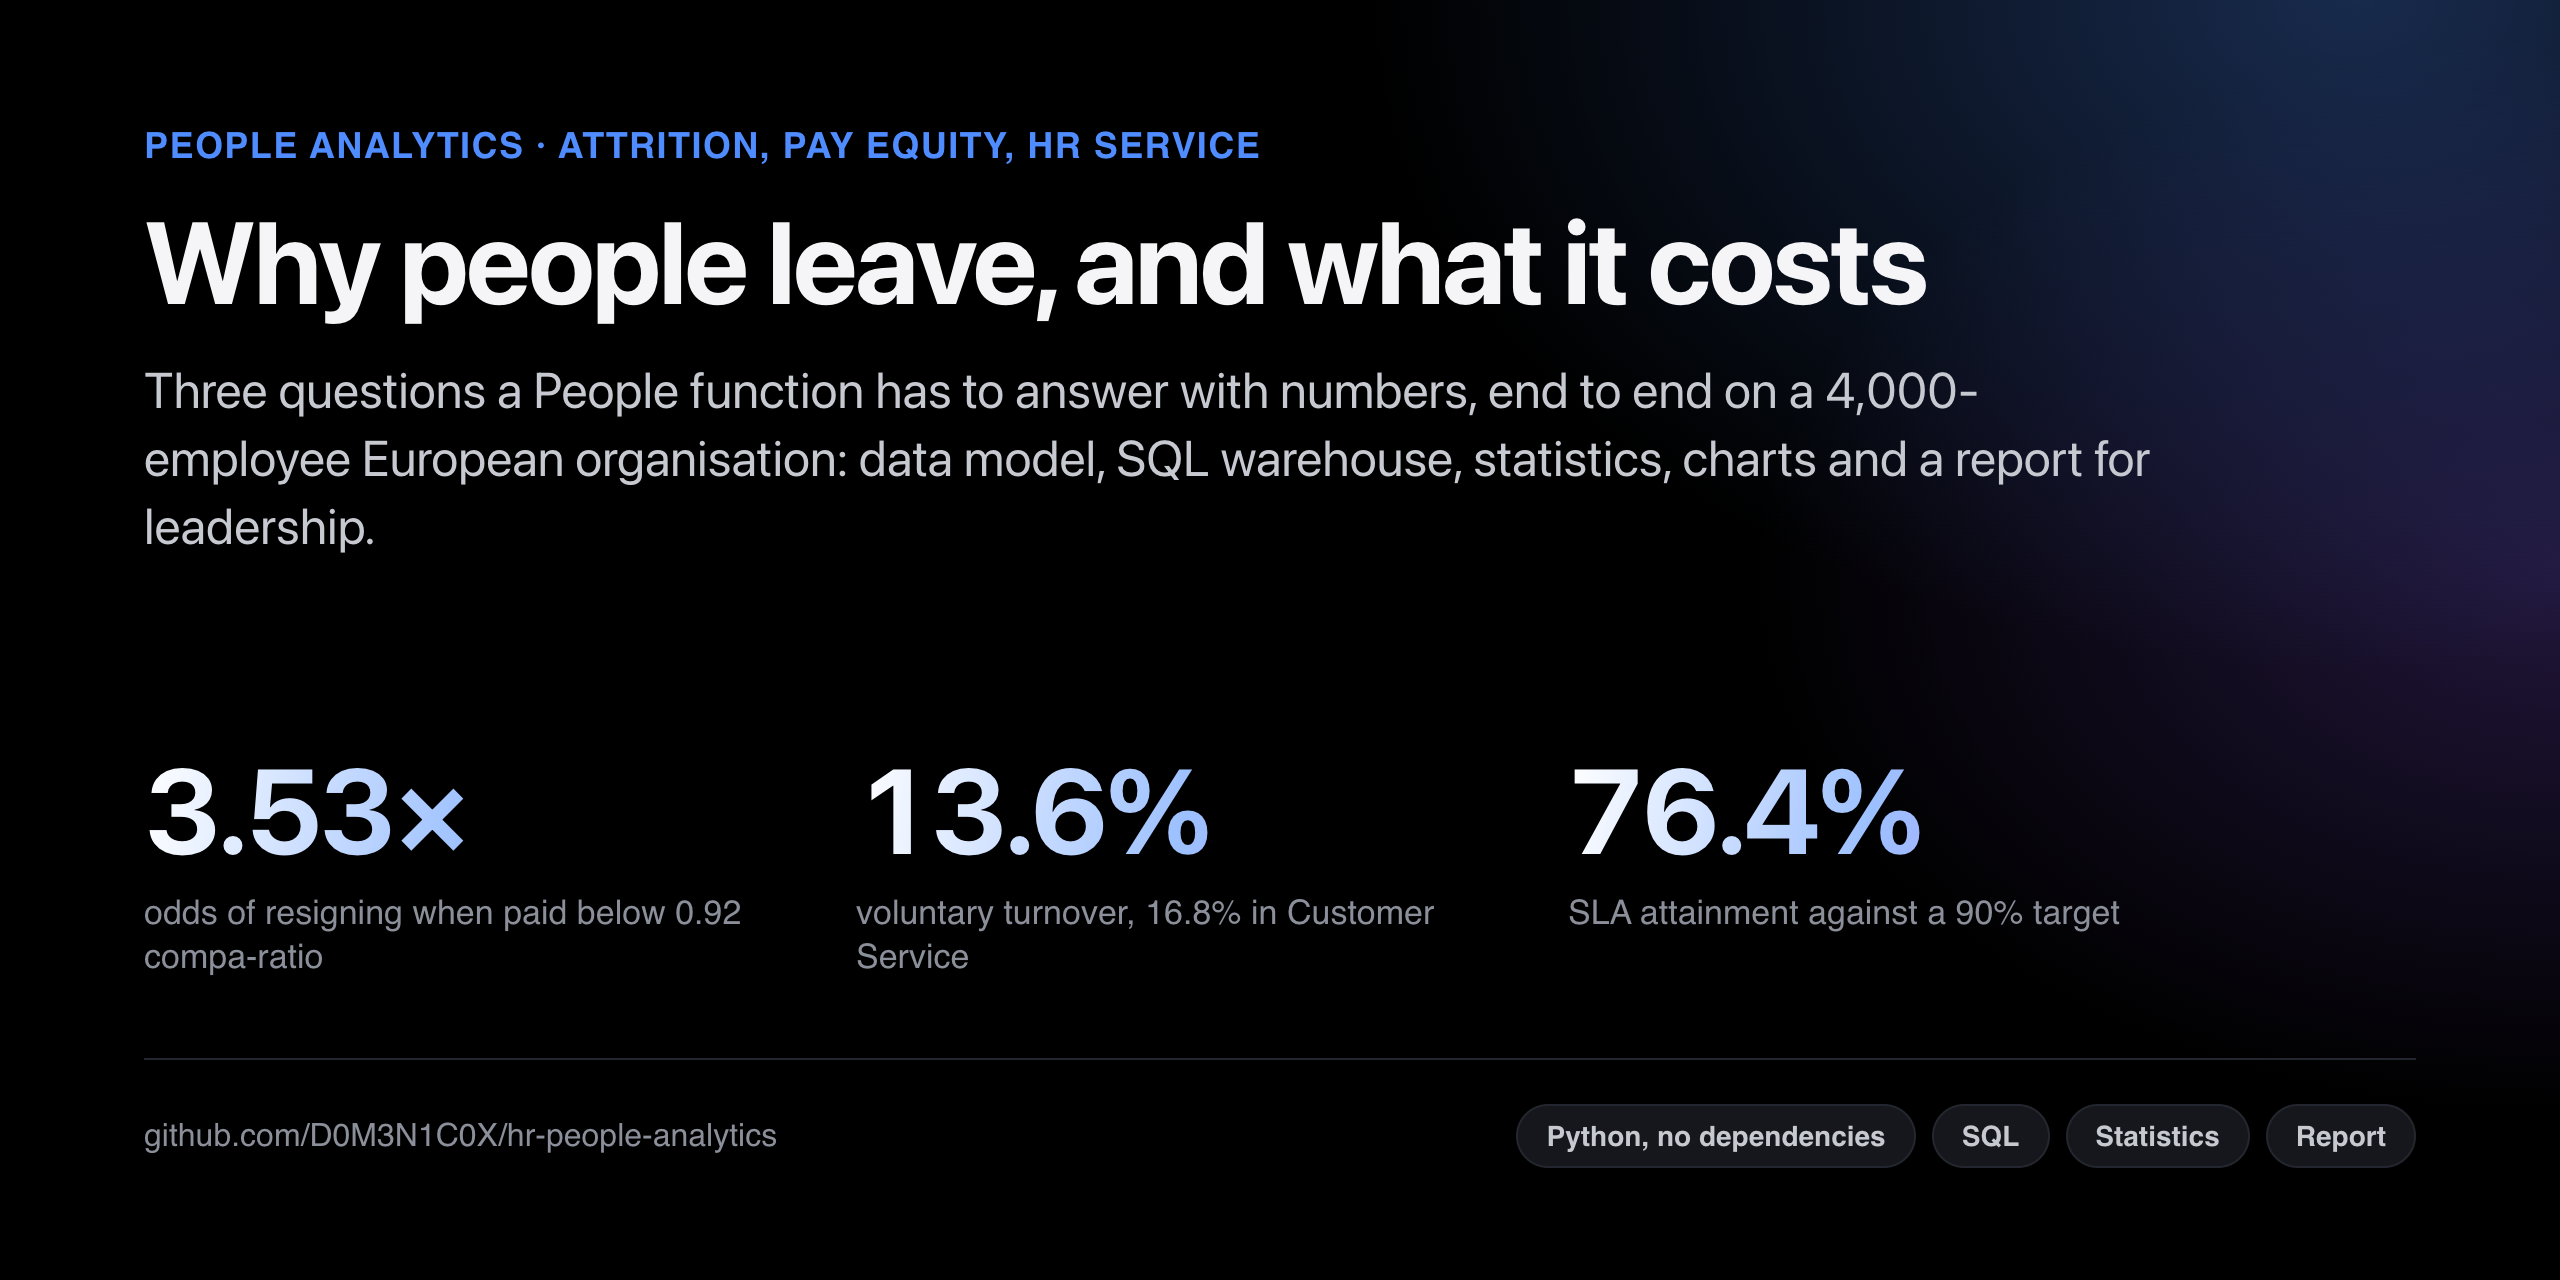
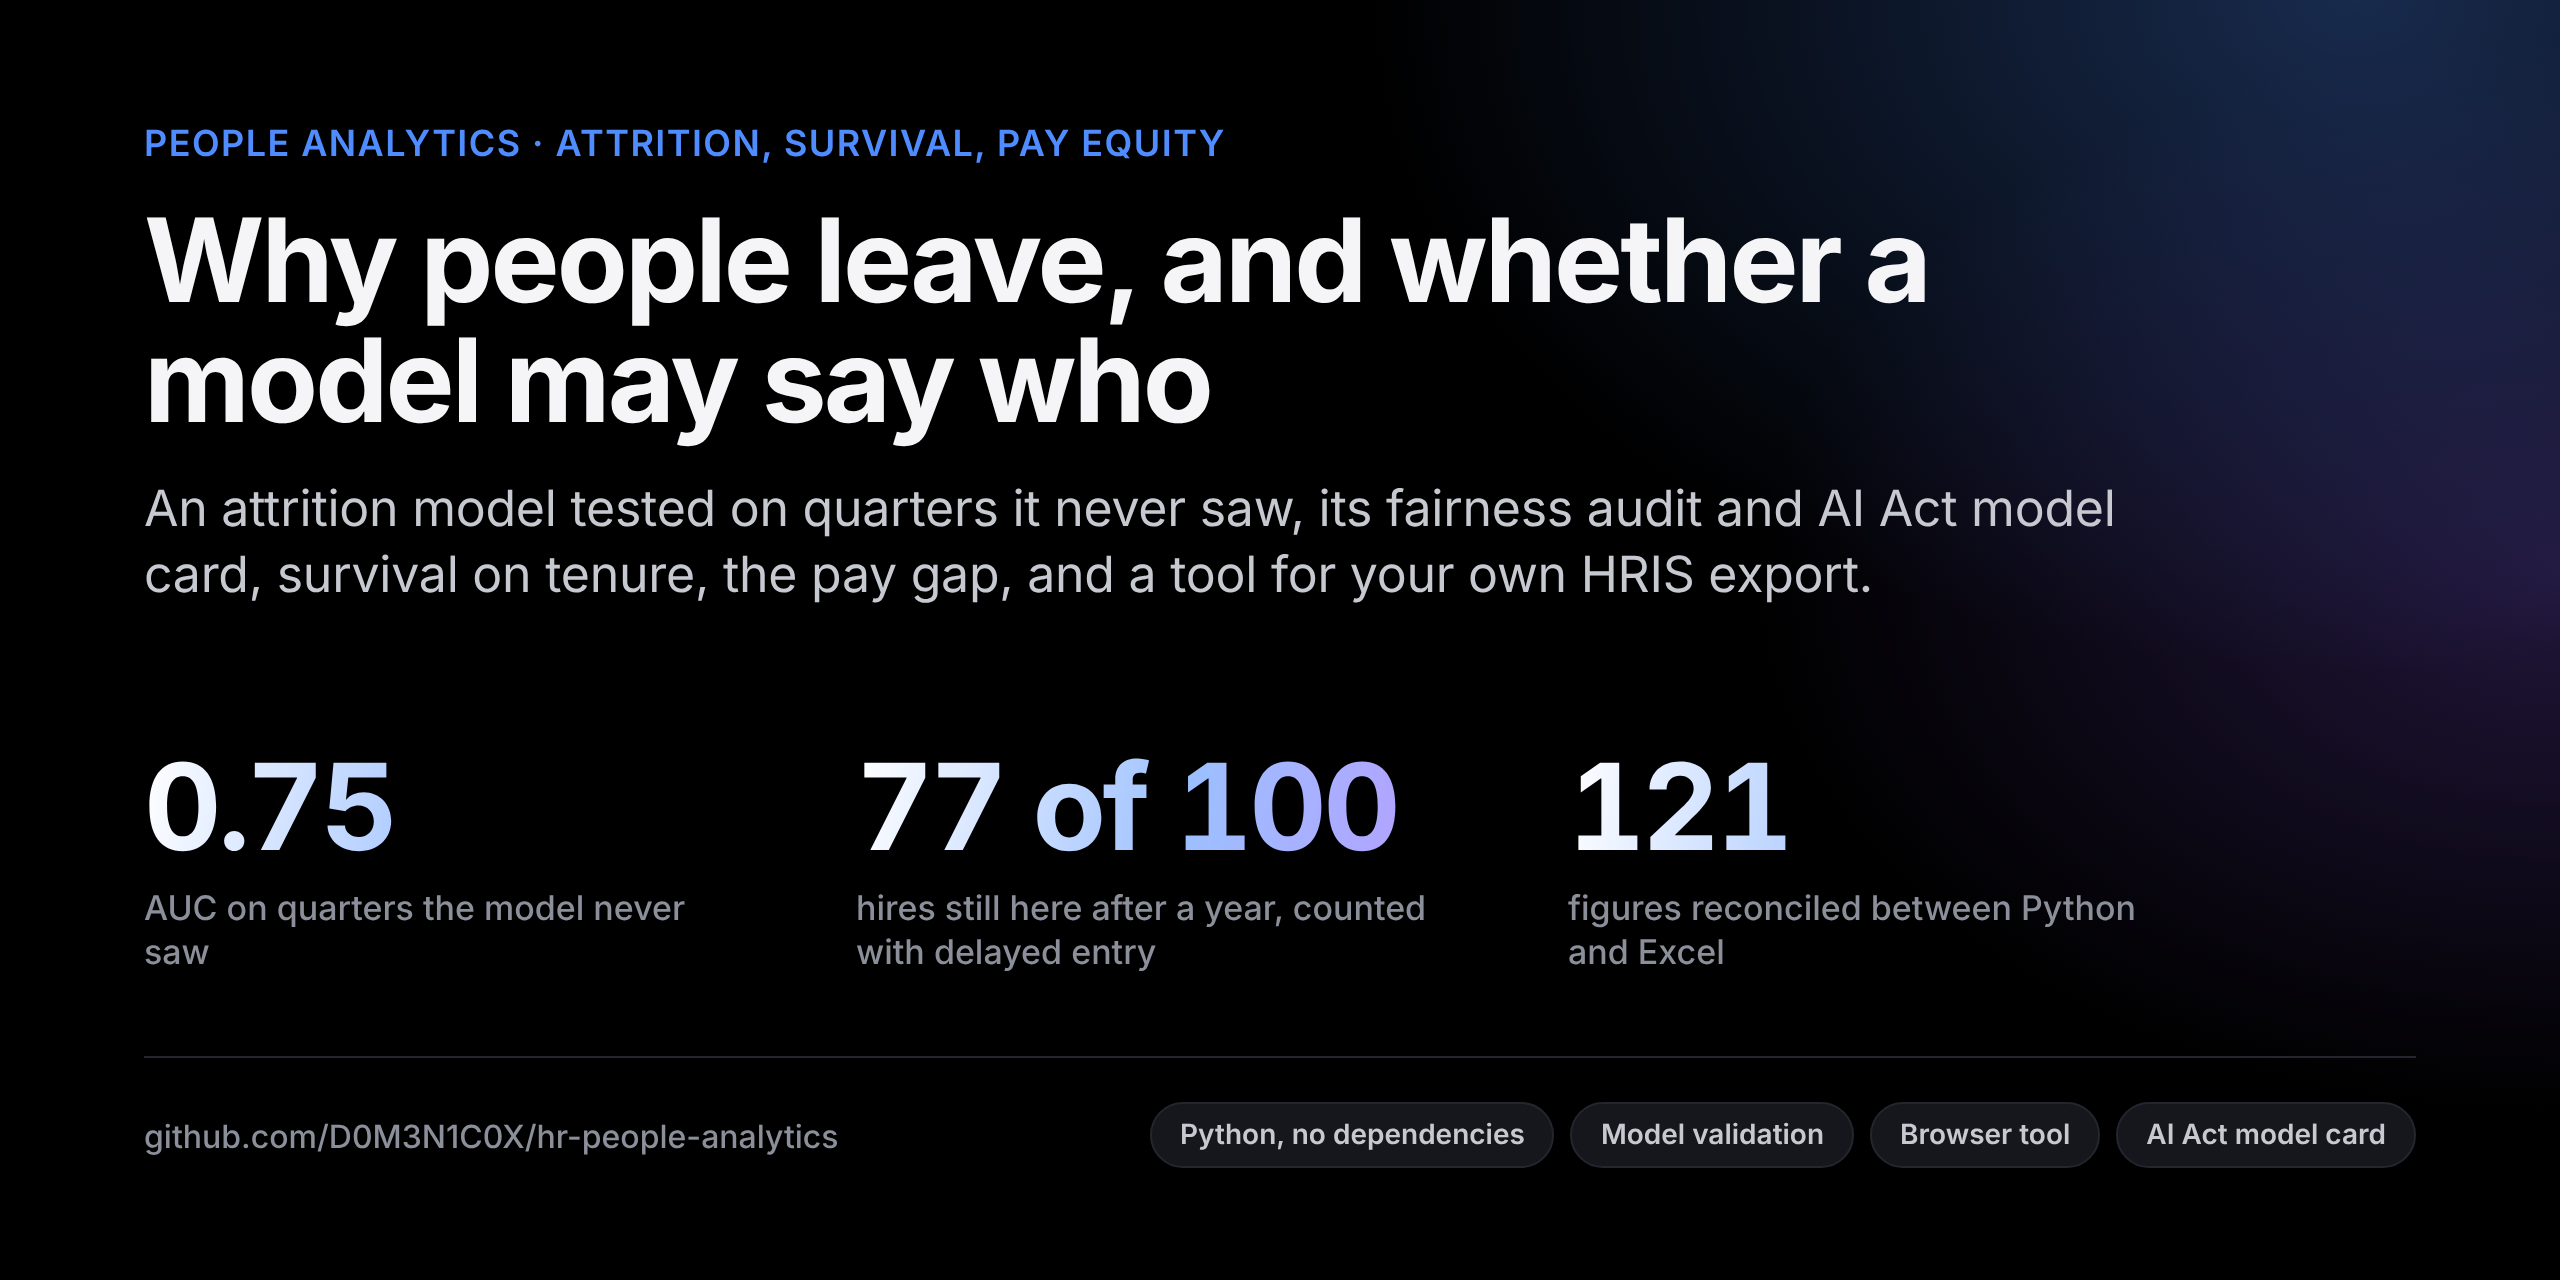
Report: the answers first, a page that fits a phone, the new cover (#8)
* Report: the answers first, a page that fits a phone, the new cover

findings.md now opens with four lines that answer the report's questions,
each figure computed by the modules (turnover, survival, the out-of-time AUC
and capture, the raw and like-for-like pay gap, SLA), and links to the tool,
the model card, the workbook and the code.

The published page overflowed a phone (546 px wide at 390): the charts' minimum
width stretched the grid. The grid column is now minmax(0, 1fr), so a wide chart
scrolls inside its plate. The cover and link preview lead with the validated
model, survival and the reconciled workbook.

Claude-Session: https://claude.ai/code/session_014XHqeApKr46St4VSU6sEYL

* Tool: no animated scrolling when the system asks for reduced motion

Claude-Session: https://claude.ai/code/session_014XHqeApKr46St4VSU6sEYL

---------

diff --git a/reports/findings.html b/reports/findings.html
@@ -28,8 +28,8 @@ body{
   font-size:17px; line-height:1.68; -webkit-font-smoothing:antialiased;
 }
 .page{padding:clamp(1.25rem,4vw,3.5rem) clamp(1rem,4vw,2rem) 5rem}
-.doc{display:grid; gap:1.5rem; justify-items:center}
-.doc > *{width:100%; max-width:42rem; margin:0}
+.doc{display:grid; grid-template-columns:minmax(0,1fr); gap:1.5rem; justify-items:center}
+.doc > *{width:100%; max-width:42rem; margin:0; min-width:0}   /* wide charts scroll in their plate, not the page */
 .doc > figure, .doc > .table-wrap{max-width:57rem}
 
 h1,h2,h3{font-family:-apple-system,BlinkMacSystemFont,"SF Pro Display","Inter","Segoe UI",Roboto,"Helvetica Neue",Arial,sans-serif; text-wrap:balance; margin:0}
@@ -116,6 +116,12 @@ footer.colophon{
 </head><body><div class="page"><article class="doc"><header class="masthead"><p class="eyebrow">Workforce report &middot; 12 months to 30 June 2026</p><h1>People Analytics &ndash; findings</h1>
 <dl class="meta"><dt>Reporting period</dt><dd>01 July 2025 to 30 June 2026</dd><dt>Population</dt><dd>a synthetic European shared-services organisation across Italy, Poland, Germany and Spain</dd><dt>Generated by</dt><dd><code>python3 src/run_all.py</code> &ndash; every number and chart below is reproduced from the code in this repository</dd></dl></header>
 <div class="notice">The data is synthetic and generated with a fixed seed (<code>src/generate_data.py</code>). No real employee data is used anywhere in this project. The analytical methods, the metric definitions and the recommendations are the parts meant to be judged.</div>
+<h2><span>In one minute</span></h2>
+<p>- <strong>Who leaves.</strong> Voluntary turnover is <strong>13.6%</strong>, Customer Service the highest at <strong>16.8%</strong>; of a hundred hires, <strong>77</strong> are still here after a year. Pay below band is the strongest warning sign.
+- <strong>Can it be predicted?</strong> Tested on quarters it never saw, the attrition model reaches an AUC of <strong>0.75</strong> and its top 10% of scores catches <strong>38%</strong> of the next quarter's resignations; most people it flags stay, so it may guide conversations and nothing else.
+- <strong>Is pay fair?</strong> The mean gender pay gap is <strong>15.4%</strong>, <strong>1.6%</strong> like for like: most of it is who holds the senior jobs.
+- <strong>Does HR service work?</strong> <strong>76.4%</strong> of cases meet their SLA against a 90% target, and it breaks at the January peak.</p>
+<p><a href="https://d0m3n1c0x.github.io/hr-people-analytics/tool/">Try it on your own file</a> · <a href="https://github.com/D0M3N1C0X/hr-people-analytics/blob/main/docs/model_card.md">Model card</a> · <a href="https://github.com/D0M3N1C0X/hr-people-analytics/blob/main/deliverables/people_analytics.xlsx">The workbook</a> · <a href="https://github.com/D0M3N1C0X/hr-people-analytics">The code</a></p>
 <h2><span class="num">01</span><span>Attrition &amp; retention</span></h2>
 <p><strong>Headline.</strong> Average headcount over the window is <strong>3,364</strong>. Voluntary turnover is <strong>13.6%</strong> (457 exits); total turnover, including dismissals and end-of-contract, is <strong>16.6%</strong>. <strong>110</strong> voluntary leavers &ndash; <strong>24%</strong> of them &ndash; held a performance rating of 4 or 5, so a quarter of the loss sits in the population you least want to lose.</p>
 <p><strong>Where it is concentrated.</strong> Customer Service runs at <strong>16.8%</strong>, <strong>+3.3 pp</strong> against the company average. It carries 30% of the workforce but produces <strong>36%</strong> of all voluntary exits.</p>

diff --git a/site-assets/og-meta.html b/site-assets/og-meta.html
@@ -1,7 +1,7 @@
-<meta name="description" content="Why people leave, whether pay is defensible under the EU Pay Transparency Directive, and whether the HR service desk works, on a synthetic 4,000-employee organisation.">
+<meta name="description" content="Why people leave and whether a model may say who: an attrition model tested on quarters it never saw, its fairness audit and AI Act model card, survival on tenure, the pay gap, on a synthetic 4,000-employee organisation.">
 <meta property="og:type" content="website">
-<meta property="og:title" content="People Analytics: attrition, pay equity and HR service delivery">
-<meta property="og:description" content="Why people leave, whether pay is defensible under the EU Pay Transparency Directive, and whether the HR service desk works, on a synthetic 4,000-employee organisation.">
+<meta property="og:title" content="People Analytics: why people leave, and whether a model may say who">
+<meta property="og:description" content="Why people leave and whether a model may say who: an attrition model tested on quarters it never saw, its fairness audit and AI Act model card, survival on tenure, the pay gap, on a synthetic 4,000-employee organisation.">
 <meta property="og:url" content="https://d0m3n1c0x.github.io/hr-people-analytics/">
 <meta property="og:image" content="https://d0m3n1c0x.github.io/hr-people-analytics/og.png">
 <meta property="og:image:width" content="1280">

diff --git a/web/app.js b/web/app.js
@@ -113,6 +113,8 @@ const i18n = createI18n(T, "en");
 const $ = (id) => document.getElementById(id);
 const esc = (s) => String(s ?? "").replace(/[&<>"]/g, (c) => ({ "&": "&amp;", "<": "&lt;", ">": "&gt;", '"': "&quot;" }[c]));
 let table = null, mapping = {}, result = null, rows = [];
+const still = matchMedia("(prefers-reduced-motion: reduce)").matches;
+const reveal = (id) => $(id).scrollIntoView({ behavior: still ? "auto" : "smooth", block: "start" });
 
 function message(id, text) { const el = $(id); el.textContent = text || ""; el.classList.toggle("is-shown", !!text); }
 
@@ -134,7 +136,7 @@ async function load(file) {
     if (d && d > latest) latest = d;
   }
   if (latest) $("periodo").value = iso(latest).slice(0, 7);
-  $("colonne").scrollIntoView({ behavior: "smooth", block: "start" });
+  reveal("colonne");
 }
 
 function drawMapping() {
@@ -173,7 +175,7 @@ function run() {
   result = analyse(rows, periodEnd);
   draw();
   $("risultati").style.display = "block";
-  $("risultati").scrollIntoView({ behavior: "smooth", block: "start" });
+  reveal("risultati");
 }
 
 const pct = (x, d = 1) => (x == null ? "–" : i18n.percent(x, d));

diff --git a/src/run_all.py b/src/run_all.py
@@ -32,6 +32,43 @@ import generate_data
 from hrlib import ROOT, SNAPSHOT, WINDOW_START
 
 REPORT = ROOT / "reports" / "findings.md"
+SITE = "https://d0m3n1c0x.github.io/hr-people-analytics"
+REPO = "https://github.com/D0M3N1C0X/hr-people-analytics"
+
+
+def summary() -> str:
+    """The answers first: one line per question, every figure computed by the modules below."""
+    from hrlib import group_by, load_cases, load_employees, turnover_rate
+
+    employees = load_employees()
+    rates = {d: turnover_rate(rows) for d, rows in group_by(employees, "department").items()}
+    worst = max(rates, key=rates.get)
+    pooled = analysis_validation.evaluate()["pooled"]["model"]
+    active = [e for e in employees if e["active"]]
+    adjusted = analysis_pay_gap.nested_models(active)[-1][1]
+    cases = load_cases()
+    sla = sum(c["sla_met"] for c in cases) / len(cases)
+    lines = [
+        "## In one minute",
+        "",
+        f"- **Who leaves.** Voluntary turnover is **{turnover_rate(employees):.1f}%**, {worst} the highest at "
+        f"**{rates[worst]:.1f}%**; of a hundred hires, **{100 * analysis_survival.first_year():.0f}** are still here after a "
+        "year. Pay below band is the strongest warning sign.",
+        f"- **Can it be predicted?** Tested on quarters it never saw, the attrition model reaches an AUC of "
+        f"**{pooled['auc']:.2f}** and its top 10% of scores catches **{pooled['top10']:.0%}** of the next quarter's "
+        "resignations; most people it flags stay, so it may guide conversations and nothing else.",
+        f"- **Is pay fair?** The mean gender pay gap is **{analysis_pay_gap.raw_gap(active):.1f}%**, "
+        f"**{adjusted:.1f}%** like for like: most of it is who holds the senior jobs.",
+        f"- **Does HR service work?** **{sla:.1%}** of cases meet their SLA against a 90% target, and it breaks at "
+        "the January peak.",
+        "",
+        f"[Try it on your own file]({SITE}/tool/) · [Model card]({REPO}/blob/main/docs/model_card.md) · "
+        f"[The workbook]({REPO}/blob/main/deliverables/people_analytics.xlsx) · [The code]({REPO})",
+        "",
+        "---",
+        "",
+    ]
+    return "\n".join(lines)
 
 HEADER = f"""# People Analytics - findings
 
@@ -127,7 +164,7 @@ def main() -> None:
     print("\n4/4  writing the report")
     REPORT.parent.mkdir(parents=True, exist_ok=True)
     body = "\n\n".join(section.rstrip() + "\n" for section in sections)
-    REPORT.write_text(HEADER + body + FOOTER, encoding="utf-8")
+    REPORT.write_text(HEADER + summary() + body + FOOTER, encoding="utf-8")
 
     figures = sorted((ROOT / "reports" / "figures").glob("*.svg"))
     print(f"     reports/findings.md  ({REPORT.stat().st_size / 1024:.0f} KB)")

diff --git a/src/build_report_html.py b/src/build_report_html.py
@@ -2,7 +2,7 @@
 Render reports/findings.md as a single self-contained HTML report.
 
 The Markdown report is the source of truth; this turns it into something a
-reader can open in a browser, with all 13 charts inlined as SVG so the file
+reader can open in a browser, with every chart inlined as SVG so the file
 travels on its own - no image folder, no network, no build step.
 
     python3 src/build_report_html.py                     -> reports/findings.html
@@ -55,8 +55,8 @@ body{
   font-size:17px; line-height:1.68; -webkit-font-smoothing:antialiased;
 }
 .page{padding:clamp(1.25rem,4vw,3.5rem) clamp(1rem,4vw,2rem) 5rem}
-.doc{display:grid; gap:1.5rem; justify-items:center}
-.doc > *{width:100%; max-width:42rem; margin:0}
+.doc{display:grid; grid-template-columns:minmax(0,1fr); gap:1.5rem; justify-items:center}
+.doc > *{width:100%; max-width:42rem; margin:0; min-width:0}   /* wide charts scroll in their plate, not the page */
 .doc > figure, .doc > .table-wrap{max-width:57rem}
 
 h1,h2,h3{font-family:-apple-system,BlinkMacSystemFont,"SF Pro Display","Inter","Segoe UI",Roboto,"Helvetica Neue",Arial,sans-serif; text-wrap:balance; margin:0}

diff --git a/src/analysis_survival.py b/src/analysis_survival.py
@@ -62,6 +62,13 @@ def split_at(subjects, X, at: float):
     return s2, x2
 
 
+def first_year() -> float:
+    """Share of hires still employed after twelve months (voluntary exits, delayed entry): the report's headline."""
+    employees = load_employees()
+    eligible = [e for e in employees if months(e["hire_dt"], e["exit_dt"] or SNAPSHOT) > max(0.0, months(e["hire_dt"], WINDOW_START))]
+    return survival_at(kaplan_meier(subjects_of(eligible)), 12)
+
+
 def run() -> str:
     employees = load_employees()
     eligible = [e for e in employees if months(e["hire_dt"], e["exit_dt"] or SNAPSHOT) > max(0.0, months(e["hire_dt"], WINDOW_START))]

diff --git a/reports/findings.md b/reports/findings.md
@@ -12,6 +12,16 @@ from the code in this repository
 
 ---
 
+## In one minute
+
+- **Who leaves.** Voluntary turnover is **13.6%**, Customer Service the highest at **16.8%**; of a hundred hires, **77** are still here after a year. Pay below band is the strongest warning sign.
+- **Can it be predicted?** Tested on quarters it never saw, the attrition model reaches an AUC of **0.75** and its top 10% of scores catches **38%** of the next quarter's resignations; most people it flags stay, so it may guide conversations and nothing else.
+- **Is pay fair?** The mean gender pay gap is **15.4%**, **1.6%** like for like: most of it is who holds the senior jobs.
+- **Does HR service work?** **76.4%** of cases meet their SLA against a 90% target, and it breaks at the January peak.
+
+[Try it on your own file](https://d0m3n1c0x.github.io/hr-people-analytics/tool/) · [Model card](https://github.com/D0M3N1C0X/hr-people-analytics/blob/main/docs/model_card.md) · [The workbook](https://github.com/D0M3N1C0X/hr-people-analytics/blob/main/deliverables/people_analytics.xlsx) · [The code](https://github.com/D0M3N1C0X/hr-people-analytics)
+
+---
 ## 1. Attrition & retention
 
 **Headline.** Average headcount over the window is **3,364**. Voluntary turnover is **13.6%** (457 exits); total turnover, including dismissals and end-of-contract, is **16.6%**. **110** voluntary leavers - **24%** of them - held a performance rating of 4 or 5, so a quarter of the loss sits in the population you least want to lose.

diff --git a/README.md b/README.md
@@ -1,6 +1,6 @@
 <picture>
   <source media="(prefers-color-scheme: dark)" srcset="site-assets/cover-dark.png">
-  <img alt="Why people leave, and what it costs: 3.53 times the odds of resigning below 0.92 compa-ratio, 13.6% voluntary turnover, 76.4% SLA attainment against a 90% target." src="site-assets/cover-light.png">
+  <img alt="Why people leave, and whether a model may say who: AUC 0.75 on quarters the model never saw, 77 of 100 hires still here after a year, 121 figures reconciled between Python and Excel." src="site-assets/cover-light.png">
 </picture>
 
 <p align="center">
